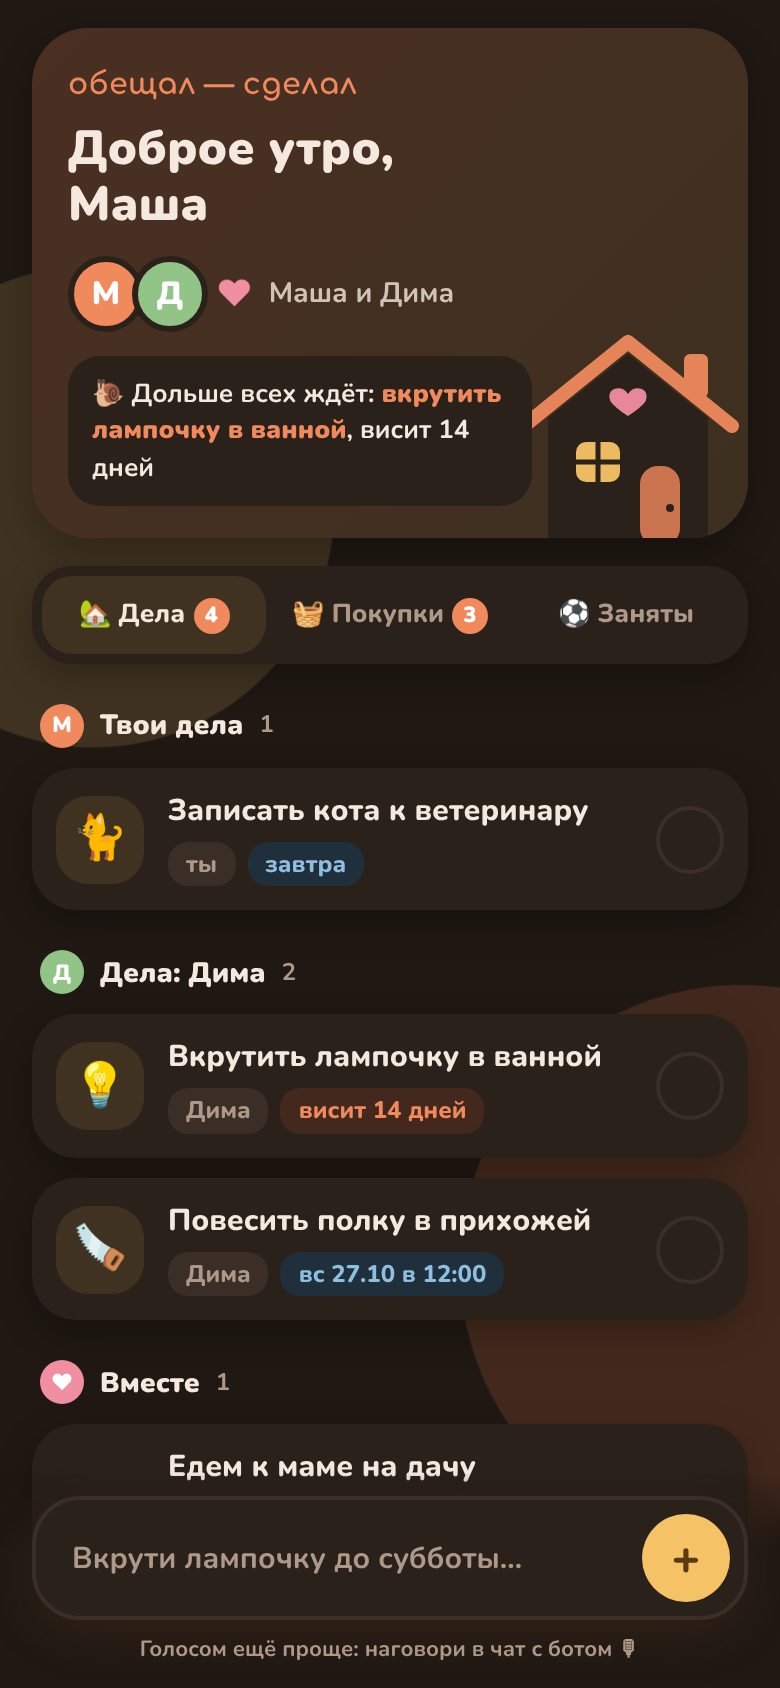
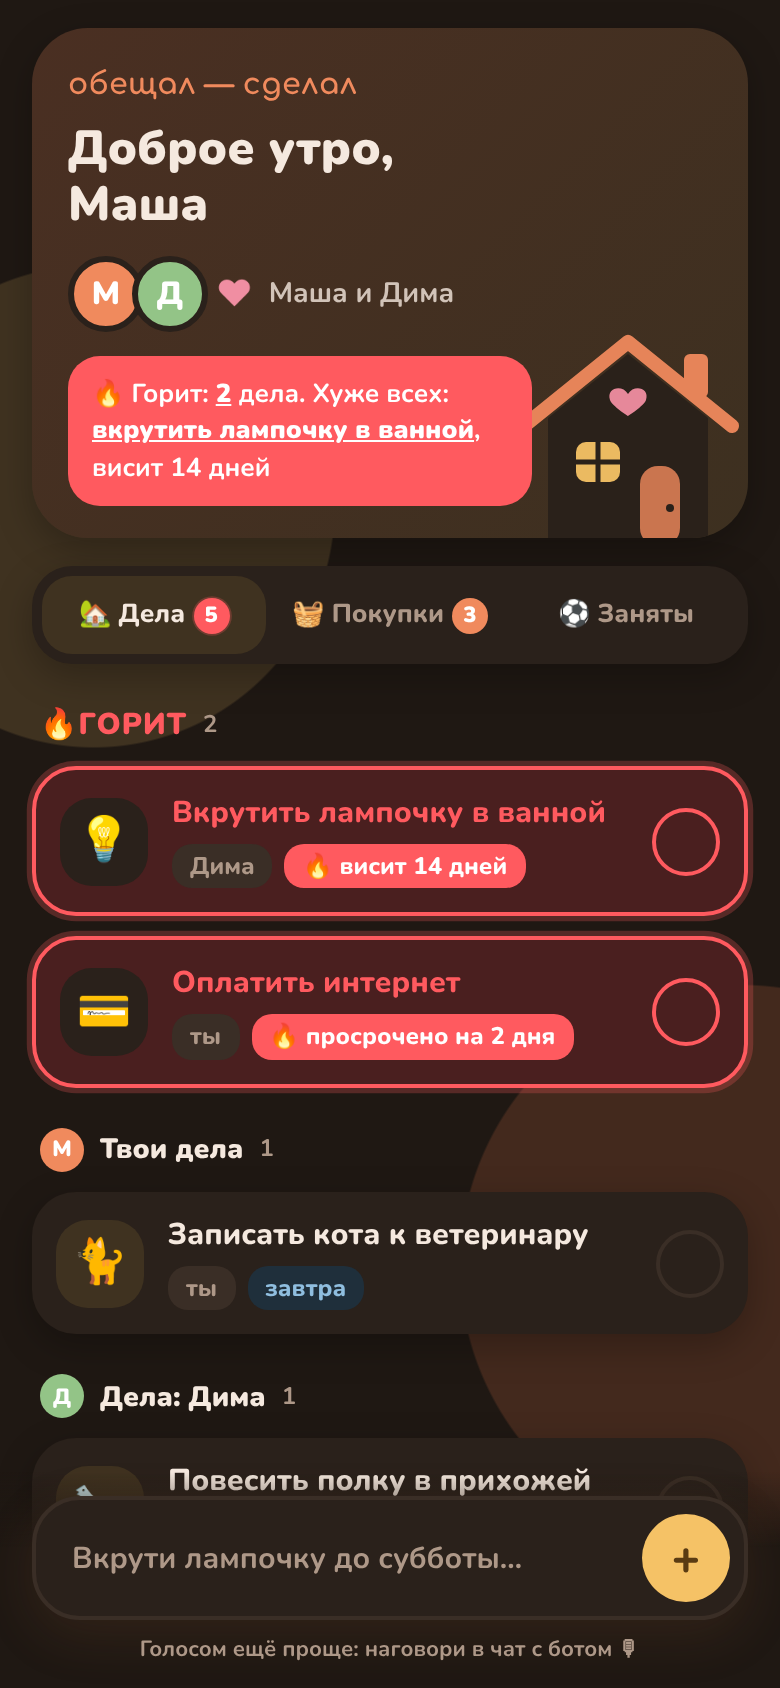
Просроченные дела горят красным
Дело с прошедшим сроком или обещание без даты старше 7 дней: блок «ГОРИТ» сверху,
красная пульсирующая карточка, красная плашка в шапке, 🔥 в списке чата.

Claude-Session: https://claude.ai/code/session_01K4WBGGq4fEqRaNC21ns6ax

diff --git a/webapp/index.html b/webapp/index.html
@@ -14,7 +14,7 @@
   --sage:#76A56B; --sage-soft:#E5F0DF; --rose:#DD6F86; --rose-soft:#FBE3E8;
   --lav:#8C7FD1; --lav-soft:#ECE8FA; --sky:#6FA3C8; --sky-soft:#E1EEF7;
   --hero1:#FFD9B8; --hero2:#FFE9C4; --shadow:0 6px 18px rgba(140,90,50,.08), 0 1px 2px rgba(140,90,50,.06);
-  --window:#FFD66B;
+  --window:#FFD66B; --hot:#E5383B; --hot-soft:#FFE3E0; --hot-glow:rgba(229,56,59,.18);
 }
 @media (prefers-color-scheme: dark){
   :root:not([data-theme="light"]){
@@ -22,7 +22,7 @@
     --terra:#F08A5D; --terra-soft:#43291D; --honey:#F5C266; --honey-soft:#3F3220;
     --sage:#93C487; --sage-soft:#26331F; --rose:#F08EA2; --rose-soft:#42232B;
     --lav:#A99DEB; --lav-soft:#2D2843; --sky:#8FBEDF; --sky-soft:#1F2F3B;
-    --hero1:#4A2F22; --hero2:#3D3020; --shadow:0 6px 18px rgba(0,0,0,.25); --window:#F5C266;
+    --hero1:#4A2F22; --hero2:#3D3020; --shadow:0 6px 18px rgba(0,0,0,.25); --window:#F5C266; --hot:#FF5A5F; --hot-soft:#4A1F1F; --hot-glow:rgba(255,90,95,.25);
   }
 }
 :root[data-theme="dark"]{
@@ -30,7 +30,7 @@
   --terra:#F08A5D; --terra-soft:#43291D; --honey:#F5C266; --honey-soft:#3F3220;
   --sage:#93C487; --sage-soft:#26331F; --rose:#F08EA2; --rose-soft:#42232B;
   --lav:#A99DEB; --lav-soft:#2D2843; --sky:#8FBEDF; --sky-soft:#1F2F3B;
-  --hero1:#4A2F22; --hero2:#3D3020; --shadow:0 6px 18px rgba(0,0,0,.25); --window:#F5C266;
+  --hero1:#4A2F22; --hero2:#3D3020; --shadow:0 6px 18px rgba(0,0,0,.25); --window:#F5C266; --hot:#FF5A5F; --hot-soft:#4A1F1F; --hot-glow:rgba(255,90,95,.25);
 }
 *{box-sizing:border-box;-webkit-tap-highlight-color:transparent}
 body{margin:0;background:var(--bg);color:var(--ink);font:700 15px/1.4 Nunito,system-ui,sans-serif;padding:0 16px 130px;
@@ -85,6 +85,16 @@ h3 small{font-weight:700;color:var(--muted);font-size:12px}
 .chip.both{background:var(--rose-soft);color:var(--rose)}
 .chip.busy{background:var(--lav-soft);color:var(--lav)}
 .warn{font-size:12px;color:var(--rose);margin-top:8px;padding:8px 10px;border-radius:12px;background:var(--rose-soft);font-weight:700}
+.item.hot{background:var(--hot-soft);border:2px solid var(--hot);animation:alarm 1.8s ease-in-out infinite}
+.item.hot .blob{background:var(--paper)}
+.item.hot .text{color:var(--hot)}
+.item.hot .check{border-color:var(--hot)}
+@keyframes alarm{0%,100%{box-shadow:0 0 0 0 var(--hot-glow)}50%{box-shadow:0 0 0 7px var(--hot-glow)}}
+.chip.late{background:var(--hot);color:#fff}
+h3.hot{color:var(--hot);font-size:15px;letter-spacing:.5px}
+.oldest.alarm{background:var(--hot);color:#fff}
+.oldest.alarm b{color:#fff;text-decoration:underline}
+.tabs b.hot{background:var(--hot);animation:alarm 1.8s infinite}
 .check{width:34px;height:34px;border-radius:50%;border:2.5px solid var(--line);flex:none;cursor:pointer;display:grid;place-items:center;
   color:transparent;background:none;padding:0;font-size:16px;transition:all .25s}
 .check:hover{border-color:var(--sage)}
@@ -169,7 +179,8 @@ const pic = it => (PICS.find(([re]) => re.test(it.text.toLowerCase())) || [0, KI
 
 function demoState(){
   return {brand:"Обещал — сделал", me:{id:1,name:"Маша"}, partner:{id:2,name:"Дима"}, invite:"", items:[
-    {id:1,kind:"task",text:"Вкрутить лампочку в ванной",assignee:2,assignee_name:"Дима",author:1,when:"висит 14 дней",warnings:[]},
+    {id:1,kind:"task",text:"Вкрутить лампочку в ванной",assignee:2,assignee_name:"Дима",author:1,when:"висит 14 дней",hot:true,warnings:[]},
+    {id:11,kind:"task",text:"Оплатить интернет",assignee:1,assignee_name:"Маша",author:2,when:"просрочено на 2 дня",hot:true,warnings:[]},
     {id:2,kind:"task",text:"Записать кота к ветеринару",assignee:1,assignee_name:"Маша",author:2,when:"завтра",warnings:[]},
     {id:3,kind:"event",text:"Едем к маме на дачу",assignee:null,assignee_name:"оба",author:1,when:"сб 26.10",
      warnings:["⚠ Осторожно: сб 26.10 Дима занят(а), там «Баня с друзьями». Планировать на этот день совместное — смелый поступок."]},
@@ -221,16 +232,16 @@ function itemHtml(it){
     const who = it.assignee == null ? "вместе" : it.assignee === S.me.id ? "ты" : it.assignee_name;
     chips.push(`<span class="chip ${it.kind === "busy" ? "busy" : it.assignee == null ? "both" : ""}">${esc(who)}</span>`);
   }
-  if (it.when) chips.push(`<span class="chip ${it.when.startsWith("висит") ? "hang" : "when"}">${esc(it.when)}</span>`);
+  if (it.when) chips.push(`<span class="chip ${it.hot ? "late" : it.when.startsWith("висит") ? "hang" : "when"}">${it.hot ? "🔥 " : ""}${esc(it.when)}</span>`);
   const warn = (it.warnings || []).map(w => `<div class="warn">${esc(w)}</div>`).join("");
   const check = it.kind === "busy" ? "" : `<button class="check" data-done="${it.id}" aria-label="Сделано">♥</button>`;
-  return `<div class="item k-${it.kind}" id="i${it.id}" data-more="${it.id}"><div class="blob">${pic(it)}</div>
+  return `<div class="item k-${it.kind}${it.hot ? " hot" : ""}" id="i${it.id}" data-more="${it.id}"><div class="blob">${pic(it)}</div>
     <div class="body"><div class="text">${esc(it.text)}</div>${chips.length ? `<div class="meta">${chips.join("")}</div>` : ""}${warn}</div>${check}</div>`;
 }
 
-function group(title, items, dot){
+function group(title, items, dot, cls){
   if (!items.length) return "";
-  return `<h3>${dot || ""}${esc(title)} <small>${items.length}</small></h3>` + items.map(itemHtml).join("");
+  return `<h3 class="${cls || ""}">${dot || ""}${esc(title)} <small>${items.length}</small></h3>` + items.map(itemHtml).join("");
 }
 const dot = (name, color) => `<span class="dot" style="background:var(${color})">${initial(name)}</span>`;
 
@@ -240,9 +251,12 @@ function render(){
   $("pair").innerHTML = `<span class="ava me">${initial(me.name)}</span>` +
     (p ? `<span class="ava you">${initial(p.name)}</span><span class="heart">♥</span><span class="names">${esc(me.name)} и ${esc(p.name)}</span>`
        : `<span class="ava wait">?</span><span class="names">ждём вторую половину</span>`);
+  const hot = S.items.filter(i => i.hot);
   const hanging = S.items.filter(i => i.kind === "task" && /^висит/.test(i.when || ""))
                          .sort((a, b) => parseInt(b.when.slice(6)) - parseInt(a.when.slice(6)))[0];
-  $("oldest").innerHTML = hanging ? `<div class="oldest">🐌 Дольше всех ждёт: <b>${esc(hanging.text.toLowerCase())}</b>, ${esc(hanging.when)}</div>` : "";
+  $("oldest").innerHTML = hot.length
+    ? `<div class="oldest alarm">🔥 Горит: <b>${hot.length}</b> ${hot.length === 1 ? "дело" : hot.length < 5 ? "дела" : "дел"}. Хуже всех: <b>${esc(hot[0].text.toLowerCase())}</b>, ${esc(hot[0].when)}</div>`
+    : hanging ? `<div class="oldest">🐌 Дольше всех ждёт: <b>${esc(hanging.text.toLowerCase())}</b>, ${esc(hanging.when)}</div>` : "";
   $("invite").innerHTML = (!p && S.invite) ? `<div class="invite"><p>Позови свою половину, иначе напоминать будет некому. Бот уже точит сарказм 😏</p><button class="btn" id="share">Позвать</button></div>` : "";
   if ($("share")) $("share").onclick = () => {
     const url = "https://t.me/share/url?url=" + encodeURIComponent(S.invite) + "&text=" + encodeURIComponent("Давай вести наш семейный планер 🏡");
@@ -250,6 +264,7 @@ function render(){
   };
   const by = k => S.items.filter(i => k === "tasks" ? (i.kind === "task" || i.kind === "event") : i.kind === k);
   $("n-tasks").textContent = by("tasks").length || "";
+  $("n-tasks").classList.toggle("hot", hot.length > 0);
   $("n-buy").textContent = by("buy").length || "";
   document.querySelectorAll(".tabs button").forEach(b => b.classList.toggle("on", b.dataset.tab === tab));
   const items = by(tab);
@@ -260,9 +275,11 @@ function render(){
                busy:["🛋","Все дома, никто не занят.<br>Например: «по четвергам у меня футбол»."]}[tab];
     html = `<div class="empty"><div class="big">${e[0]}</div>${e[1]}</div>`;
   } else if (tab === "tasks") {
-    html = group("Твои дела", items.filter(i => i.assignee === me.id), dot(me.name, "--terra"))
-         + (p ? group(`Дела: ${p.name}`, items.filter(i => i.assignee === p.id), dot(p.name, "--sage")) : "")
-         + group("Вместе", items.filter(i => i.assignee == null), `<span class="dot" style="background:var(--rose)">♥</span>`);
+    const cold = items.filter(i => !i.hot);
+    html = group("ГОРИТ", items.filter(i => i.hot), "🔥", "hot")
+         + group("Твои дела", cold.filter(i => i.assignee === me.id), dot(me.name, "--terra"))
+         + (p ? group(`Дела: ${p.name}`, cold.filter(i => i.assignee === p.id), dot(p.name, "--sage")) : "")
+         + group("Вместе", cold.filter(i => i.assignee == null), `<span class="dot" style="background:var(--rose)">♥</span>`);
   } else if (tab === "busy") {
     html = group(me.name, items.filter(i => i.assignee === me.id), dot(me.name, "--terra"))
          + (p ? group(p.name, items.filter(i => i.assignee === p.id), dot(p.name, "--sage")) : "");

diff --git a/planner.py b/planner.py
@@ -13,6 +13,7 @@ from config import config
 
 WEEKLY = ["каждый понедельник", "каждый вторник", "каждую среду", "каждый четверг", "каждую пятницу",
           "каждую субботу", "каждое воскресенье"]
+HOT_AFTER_DAYS = 7
 ICONS = {"task": "🔧", "buy": "🛒", "busy": "🚫", "event": "💞"}
 
 
@@ -43,12 +44,29 @@ def assignee_for(uid: int, who: str) -> int | None:
     return uid
 
 
+def hangs_days(row, today: dt.date) -> int:
+    return (today - dt.date.fromisoformat(row["created"][:10])).days
+
+
+def is_hot(row, today: dt.date | None = None) -> bool:
+    """Burning: a chore or plan past its date, or a promise without a date hanging longer than HOT_AFTER_DAYS."""
+    today = today or db.local_now().date()
+    if row["kind"] not in ("task", "event") or row["status"] != "open":
+        return False
+    if row["day"]:
+        return row["day"] < today.isoformat()
+    return row["kind"] == "task" and hangs_days(row, today) >= HOT_AFTER_DAYS
+
+
 def when_text(row, today: dt.date | None = None) -> str:
     today = today or db.local_now().date()
     if row["weekday"] is not None:
         return WEEKLY[row["weekday"]]
+    if row["kind"] in ("task", "event") and row["day"] and row["day"] < today.isoformat():
+        late = (today - dt.date.fromisoformat(row["day"])).days
+        return "просрочено со вчера" if late == 1 else f"просрочено на {jokes.plural_days(late)}"
     if row["kind"] == "task" and not row["day"]:
-        hangs = (today - dt.date.fromisoformat(row["created"][:10])).days
+        hangs = hangs_days(row, today)
         if hangs >= 2:  # the quiet sarcasm of the list itself
             return f"висит {jokes.plural_days(hangs)}"
     return parser.human_date(row["day"], row["time"], today)
@@ -56,7 +74,8 @@ def when_text(row, today: dt.date | None = None) -> str:
 
 def line(row, today: dt.date | None = None) -> str:
     """«🔧 Вкрутить лампочку · Вася · сб 26.10»"""
-    parts = [f"{ICONS[row['kind']]} {esc(row['text'])}"]
+    icon = "🔥" if is_hot(row, today) else ICONS[row["kind"]]
+    parts = [f"{icon} {esc(row['text'])}"]
     if row["kind"] != "buy":
         parts.append(esc(name(row["assignee_id"])))
     w = when_text(row, today)

diff --git a/tests/test_planner.py b/tests/test_planner.py
@@ -146,3 +146,21 @@ def test_delete_user_keeps_shared_items_for_partner(couple):
     assert len(rows) == 2 and all(r["assignee_id"] is None for r in rows)
     db.delete_user(1)
     assert not db.items(couple)
+
+
+def test_overdue_and_long_hanging_tasks_burn(couple):
+    today = NOW.date()
+    late = db.item(db.add_item(couple, 1, "task", "Оплатить интернет", 1, "2026-10-20"), couple)
+    assert planner.is_hot(late, today) and planner.when_text(late, today) == "просрочено на 2 дня"
+    assert planner.line(late, today).startswith("🔥")
+    yesterday = db.item(db.add_item(couple, 1, "event", "Кино", None, "2026-10-21"), couple)
+    assert planner.when_text(yesterday, today) == "просрочено со вчера"
+    fresh = db.item(db.add_item(couple, 1, "task", "Позвонить маме", 1, "2026-10-22"), couple)
+    assert not planner.is_hot(fresh, today)
+    rows, _ = planner.add_text(1, "Ты обещал вкрутить лампочку")
+    _age(rows[0]["id"], 6)
+    assert not planner.is_hot(db.item(rows[0]["id"], couple), today)
+    _age(rows[0]["id"], 7)
+    assert planner.is_hot(db.item(rows[0]["id"], couple), today)
+    busy = db.item(db.add_item(couple, 2, "busy", "Баня", 2, "2026-10-18"), couple)
+    assert not planner.is_hot(busy, today)  # someone's past football is not a fire

diff --git a/bot.py b/bot.py
@@ -128,12 +128,16 @@ async def tasks(msg: Message) -> None:
         return
     today = db.local_now().date()
     p = db.partner(u["id"])
+    hot = [r for r in rows if planner.is_hot(r, today)]
+    hot_ids = {r["id"] for r in hot}
+    cold = [r for r in rows if r["id"] not in hot_ids]
     parts = [
-        _section("Твои", [r for r in rows if r["assignee_id"] == u["id"]], today),
-        _section(f"Дела: {esc(p['name'])}" if p else "Партнёра", [r for r in rows if p and r["assignee_id"] == p["id"]], today),
-        _section("Общие", [r for r in rows if r["assignee_id"] is None], today),
+        _section("🔥 ГОРИТ", hot, today),
+        _section("Твои", [r for r in cold if r["assignee_id"] == u["id"]], today),
+        _section(f"Дела: {esc(p['name'])}" if p else "Партнёра", [r for r in cold if p and r["assignee_id"] == p["id"]], today),
+        _section("Общие", [r for r in cold if r["assignee_id"] is None], today),
     ]
-    buttons = [[(f"✅ {r['text'][:28]}", f"done:{r['id']}")] for r in rows[:15]]
+    buttons = [[(f"✅ {r['text'][:28]}", f"done:{r['id']}")] for r in (hot + cold)[:15]]
     await msg.answer("\n\n".join(x for x in parts if x), reply_markup=kb(buttons))
 
 

diff --git a/web.py b/web.py
@@ -44,6 +44,7 @@ def _item(row, today) -> dict:
         "id": row["id"], "kind": row["kind"], "text": row["text"], "status": row["status"],
         "assignee": row["assignee_id"], "assignee_name": planner.name(row["assignee_id"]),
         "author": row["author_id"], "when": planner.when_text(row, today), "day": row["day"],
+        "hot": planner.is_hot(row, today),
         "warnings": planner.warnings(row),
     }
 
